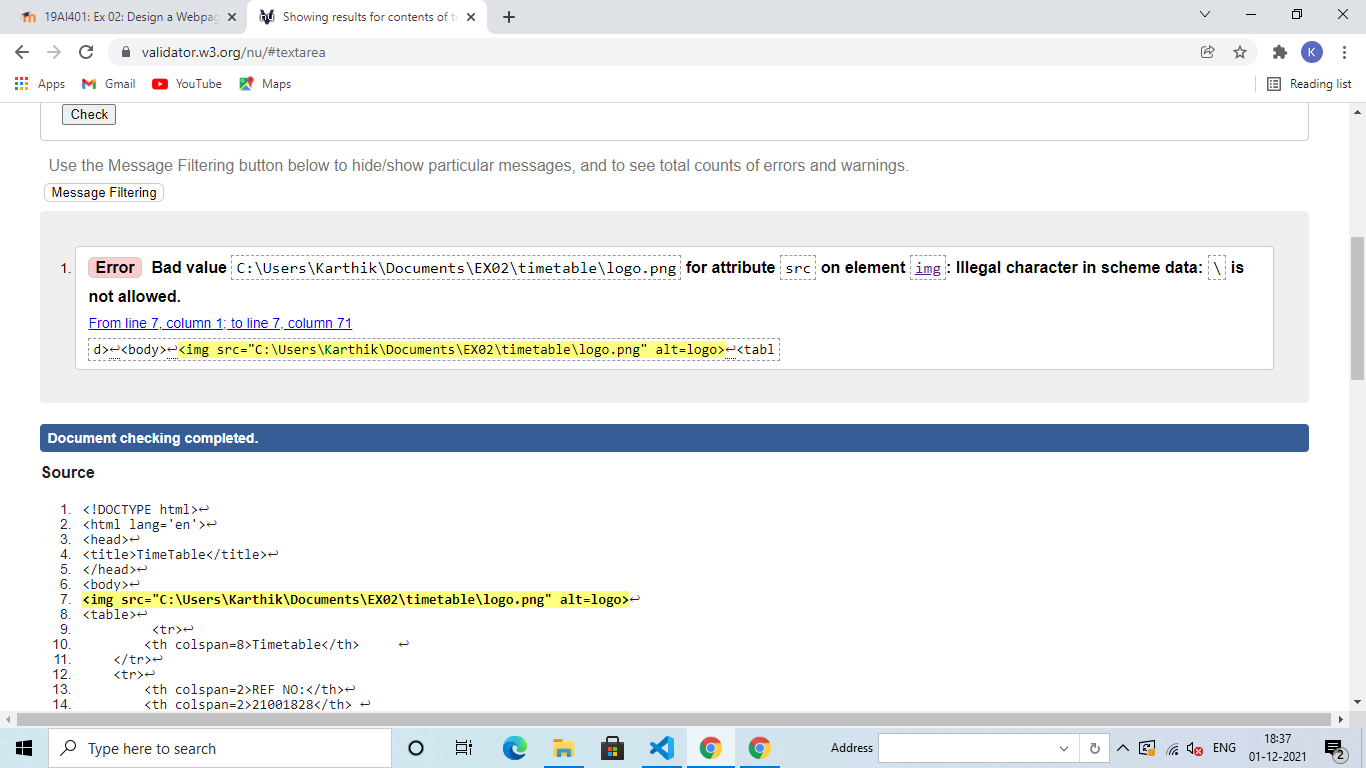
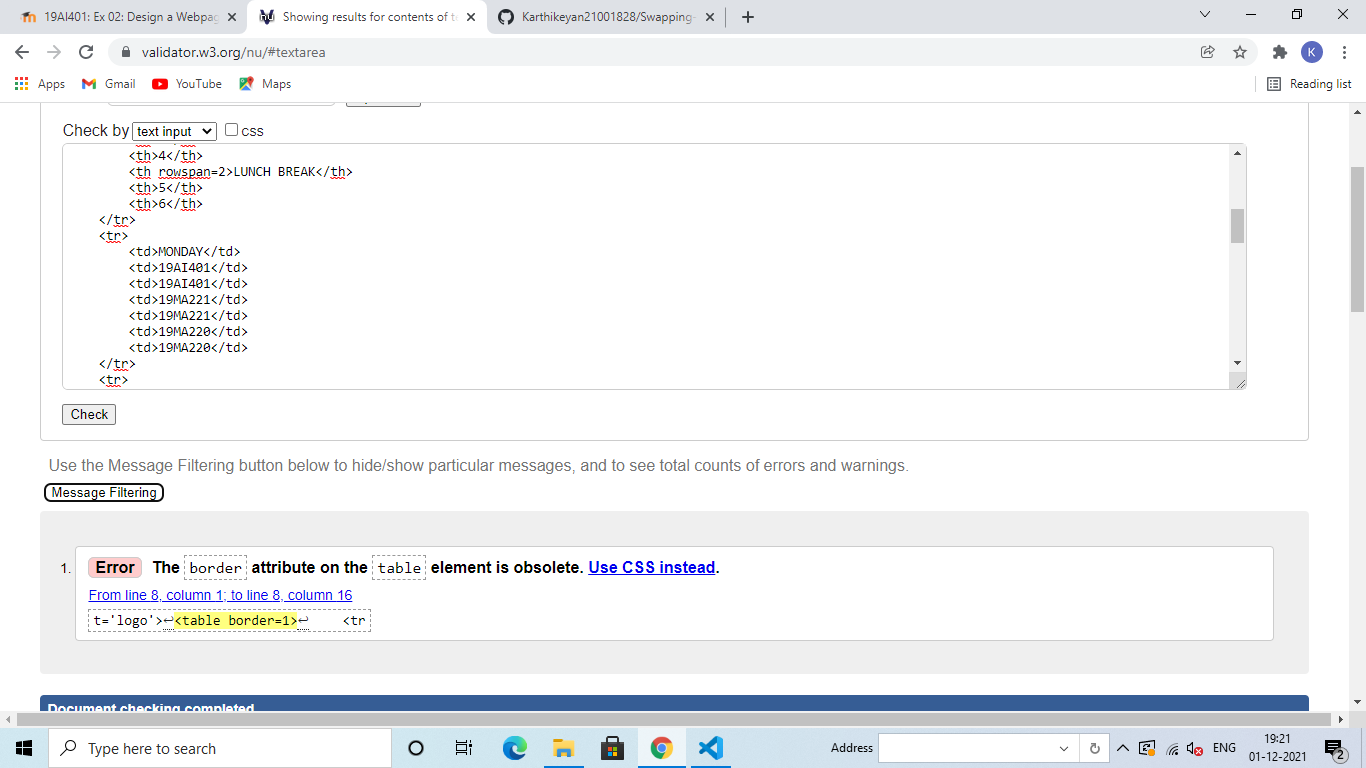
changes validator

diff --git a/README.md b/README.md
@@ -21,7 +21,7 @@ Execute the program
 <title>TimeTable</title>
 </head>
 <body>
-<img src='C:\Users\Karthik\Documents\EX02\timetable\logo.png' alt='logo'>
+<img src="logo.png" alt='logo'>
 <table border=1>
 	 <tr>
     	<th colspan=8>Timetable</th>     
@@ -108,4 +108,5 @@ Execute the program
 ![output](clientoutput.png)
 ![output](serveroutput.png)
 ![output](validator.png)
+
 
